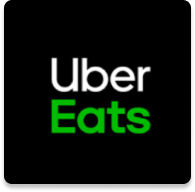
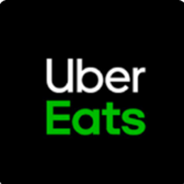
images adjusted, delivery partner selection
sizes of the images are adjusted. Delivery partner selection custom style done to highlight user's choice. Order Now button custom style done. Order total style adjusted.

Changed region(s): [[0.2446, 0.2989, 0.8152, 0.7609], [0.0, 0.0, 1.0, 1.0]]

diff --git a/delivery_options.html b/delivery_options.html
@@ -41,22 +41,22 @@
 	<!-- Delivery partners images and names -->
 	  <div class="row text-center mb-4 justify-content-center">
 		<div class="col-4 col-sm-3 col-md-4">
-		  <img src="assets/images/uber_eats.png" class="img-fluid mb-2 w-100" alt="Uber Eats">
-		  <p class="fw-bold small">Uber Eats</p>
+		  <img src="assets/images/uber_eats.png" class="img-fluid delivery-partner-image mb-2 w-100" alt="Uber Eats">
+		  <p class="fw-bold delivery-partner-name">Uber Eats</p>
 		</div>
 		<div class="col-4 col-sm-3 col-md-4">
-		  <img src="assets/images/deliveroo.png" class="img-fluid border border-primary rounded mb-2 w-100" alt="Deliveroo">
-		  <p class="fw-bold small">Deliveroo</p>
+		  <img src="assets/images/deliveroo.png" class="img-fluid delivery-partner-image mb-2 w-100" alt="Deliveroo">
+		  <p class="fw-bold delivery-partner-name">Deliveroo</p>
 		</div>
 		<div class="col-4 col-sm-3 col-md-4">
-		  <img src="assets/images/just_eat.png" class="img-fluid mb-2 w-100" alt="Just Eat">
-		  <p class="fw-bold small">Just Eat</p>
+		  <img src="assets/images/just_eat.png" class="img-fluid delivery-partner-image mb-2 w-100" alt="Just Eat">
+		  <p class="fw-bold delivery-partner-name">Just Eat</p>
 		</div>
 	  </div>
   
 	<!-- here, main form goes with all the fields and submit button -->
 	<form>
-	  <!-- Name -->
+	  <!-- Name field -->
 	  <div class="row mb-3">
 		<div class="col-12 col-md-2">
 		  <label class="form-label">Name*</label>
@@ -69,7 +69,7 @@
 		</div>
 	  </div>
 
-	  <!-- Email -->
+	  <!-- Email field -->
 	  <div class="row mb-3">
 		<div class="col-12 col-md-2">
 		  <label class="form-label">Email*</label>
@@ -79,7 +79,7 @@
 		</div>
 	  </div>
 
-	  <!-- Phone -->
+	  <!-- Phone field -->
 	  <div class="row mb-3">
 		<div class="col-12 col-md-2">
 		  <label class="form-label">Phone Number*</label>
@@ -89,7 +89,7 @@
 		</div>
 	  </div>
 
-	  <!-- Address -->
+	  <!-- Address field -->
 	  <div class="row mb-3">
 		<div class="col-12 col-md-2">
 		  <label class="form-label">Address*</label>
@@ -113,7 +113,7 @@
 		</div>
 	  </div>
 
-	  <!-- Time Slot & Comments -->
+	  <!-- Time slot field and optional comment -->
 	  <div class="row mb-3">
 		<div class="col-12 col-md-2">
 		  <label class="form-label">Time Slot</label>

diff --git a/css/styles.css b/css/styles.css
@@ -5,6 +5,7 @@
   --black: #000000;
   --white: #ffffff;
   --light_grey: #cce0f5;
+  --power_blue: #007bff;
   --delivery_option_highlighter: #0E668B;
   --delivery_option_brand_name: #000000;
   --header_footer_light_blue: #3D97BD;
@@ -130,7 +131,6 @@
 }
 
 
-
 /* Long button custom style */
 .custom-btn-long {
   border: 2px solid var(--black);   
@@ -142,6 +142,7 @@
   font-size: 20px; 
   font-weight: bold;
 }
+
 
 /* Long button style when mouse is hovered over it */
 .custom-btn-long:hover {
@@ -166,4 +167,28 @@
   font-weight: bold;
   font-size: 18px; 
   padding: 10px 20px;
+}
+
+
+/* Style for delivery partners names */
+.delivery-partner-name {
+	color: var(--text_title_large_black);
+	text-align: center;
+	font-weight: bold;
+	font-size: 24px; 
+}
+
+
+/* Delivery partner image custom style */
+.delivery-partner-image {
+  border: 1px solid var(--black);
+  box-shadow: 2px 2px 2px rgba(0,0,0,0.3);
+  border-radius: 16px;
+}
+
+/* Delivery partner image custom style when mouse is hovered over it */
+.delivery-partner-image:hover {
+  border-radius: 16px;
+  border: 3px solid var(--power_blue); 
+  box-shadow: 0 0 10px rgba(0, 123, 255, 0.6); 
 }
